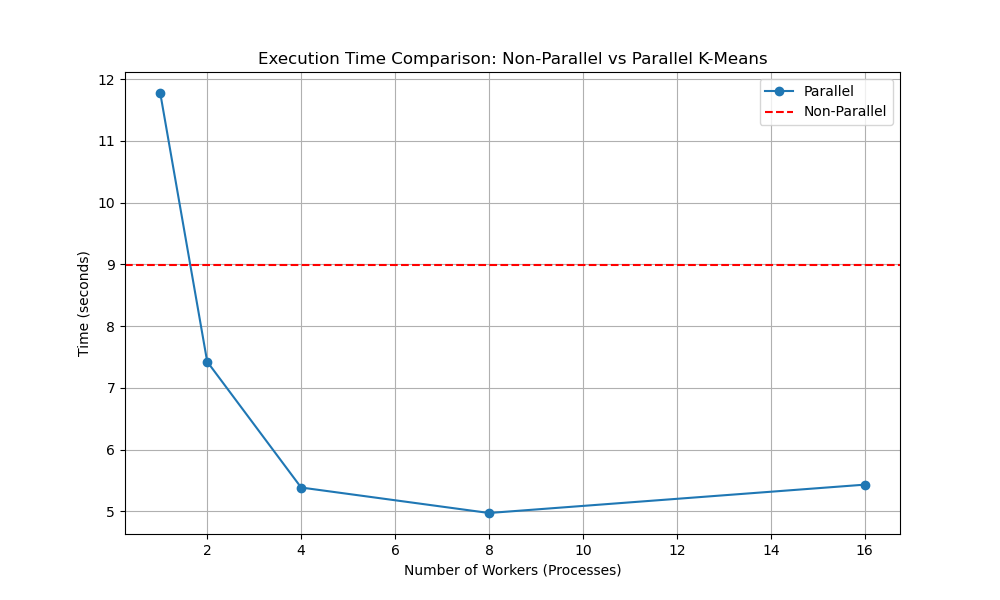
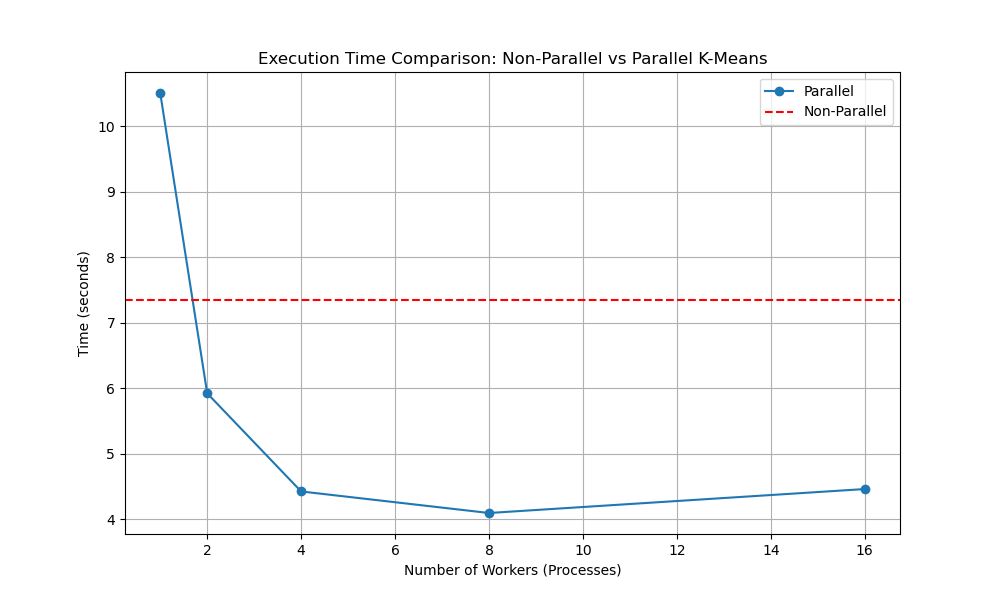
fixes

diff --git a/main.py b/main.py
@@ -67,12 +67,14 @@ def benchmark_kmeans(X, n_clusters):
     start_time = time()
     kmeans(X, n_clusters)
     non_parallel_times.append(time() - start_time)
+    print("Non-Parallel: ", non_parallel_times[-1])
 
     # Measure time for the parallel version with varying workers
     for n_processes in workers:
         start_time = time()
         kmeans_parallel(X, n_clusters, n_processes=n_processes)
         parallel_times.append(time() - start_time)
+        print("Parallel, Workers {}:".format(n_processes), parallel_times[-1])
 
     # Plot results
     plt.figure(figsize=(10, 6))

diff --git a/README.md b/README.md
@@ -20,6 +20,7 @@ The parallel implementation uses **Python's multiprocessing library**, dividing 
 - Required libraries:
   - `numpy`
   - `sklearn`
+  - `time`
   - `multiprocessing`
   - `matplotlib` (for optional visualization)
 
@@ -29,7 +30,9 @@ pip install numpy scikit-learn matplotlib
 ```
 
 ### Dataset
-The project uses a synthetic dataset generated with the `make_blobs` function from `sklearn`. The dataset is included in the code and no external files are required.
+The project uses a synthetic dataset generated with the `make_blobs` function from `sklearn`. The dataset is included in the files `X.npy` (data) and `y.npy` (labels).
+
+You can generate your own dataset using `generate_dataset.py`.
 
 ### Steps to Run
 1. Clone the repository:
@@ -39,10 +42,10 @@ The project uses a synthetic dataset generated with the `make_blobs` function fr
     ```
 2. Run the script:
     ```bash
-    python kmeans_parallel.py
+    python main.py
     ```
 
-3. The program will output the centroids and cluster assignments for both the non-parallel and parallel versions. To visualize the clustering results, add a visualization function, or modify the script as needed.
+3. The program will output the times for both the non-parallel and parallel versions, and visualize the clustering speed.
 
 ---
 
@@ -54,40 +57,22 @@ The parallel implementation focuses on distributing the **distance calculation a
 
 ## Speedup Analysis
 ### Speedup Calculation
-To measure speedup, the execution time for both versions was recorded while varying the number of processes used in the parallel implementation. The speedup is calculated as:
-
-\[
-\text{Speedup} = \frac{\text{Time for Non-Parallel Version}}{\text{Time for Parallel Version}}
-\]
-
+To measure speedup, the execution time for both versions was recorded while varying the number of processes used in the parallel implementation.
 ### Example Results
 The following figure demonstrates the dependency between the number of processes and the speedup:
 
 | Processes | Non-Parallel Time (s) | Parallel Time (s) | Speedup |
-|-----------|------------------------|--------------------|---------|
-| 1         | 12.5                  | 12.0              | 1.04    |
-| 2         | 12.5                  | 6.3               | 1.98    |
-| 4         | 12.5                  | 3.2               | 3.91    |
+|-----------|-----------------------|-------------------|---------|
+| 1         | 7.3                   | 10.5              | 0.7     |
+| 2         | 7.3                   | 5.9               | 1.24    |
+| 4         | 7.3                   | 4.2               | 1.74    |
+| 8         | 7.3                   | 4.1               | 1.78    |
+| 16        | 7.3                   | 4.5               | 1.62    |
 
 **Note:** The performance gain depends on the dataset size and system configuration.
 
 ### Visualization
-To generate a speedup plot, add the following code:
-```python
-import matplotlib.pyplot as plt
-
-processes = [1, 2, 4, 8]
-speedups = [1.0, 1.98, 3.91, 7.65]
-
-plt.figure(figsize=(8, 6))
-plt.plot(processes, speedups, marker='o', label='Speedup')
-plt.axhline(y=max(speedups), color='r', linestyle='--', label='Ideal Speedup')
-plt.title('Speedup vs Number of Processes')
-plt.xlabel('Number of Processes')
-plt.ylabel('Speedup')
-plt.legend()
-plt.grid()
-plt.show()
+![comp_graph](kmeans_speedup_comparison.png)
 ```
 
 
